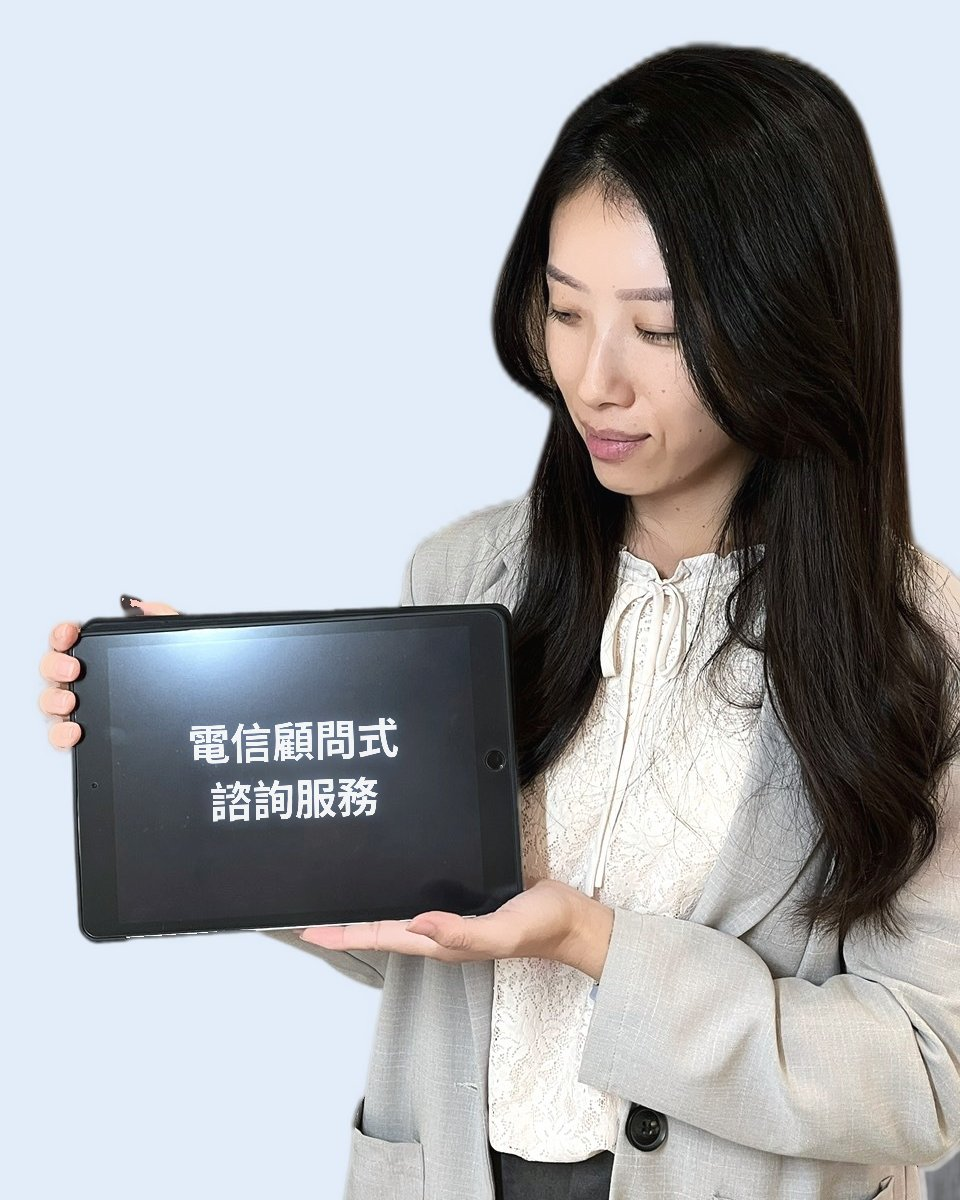
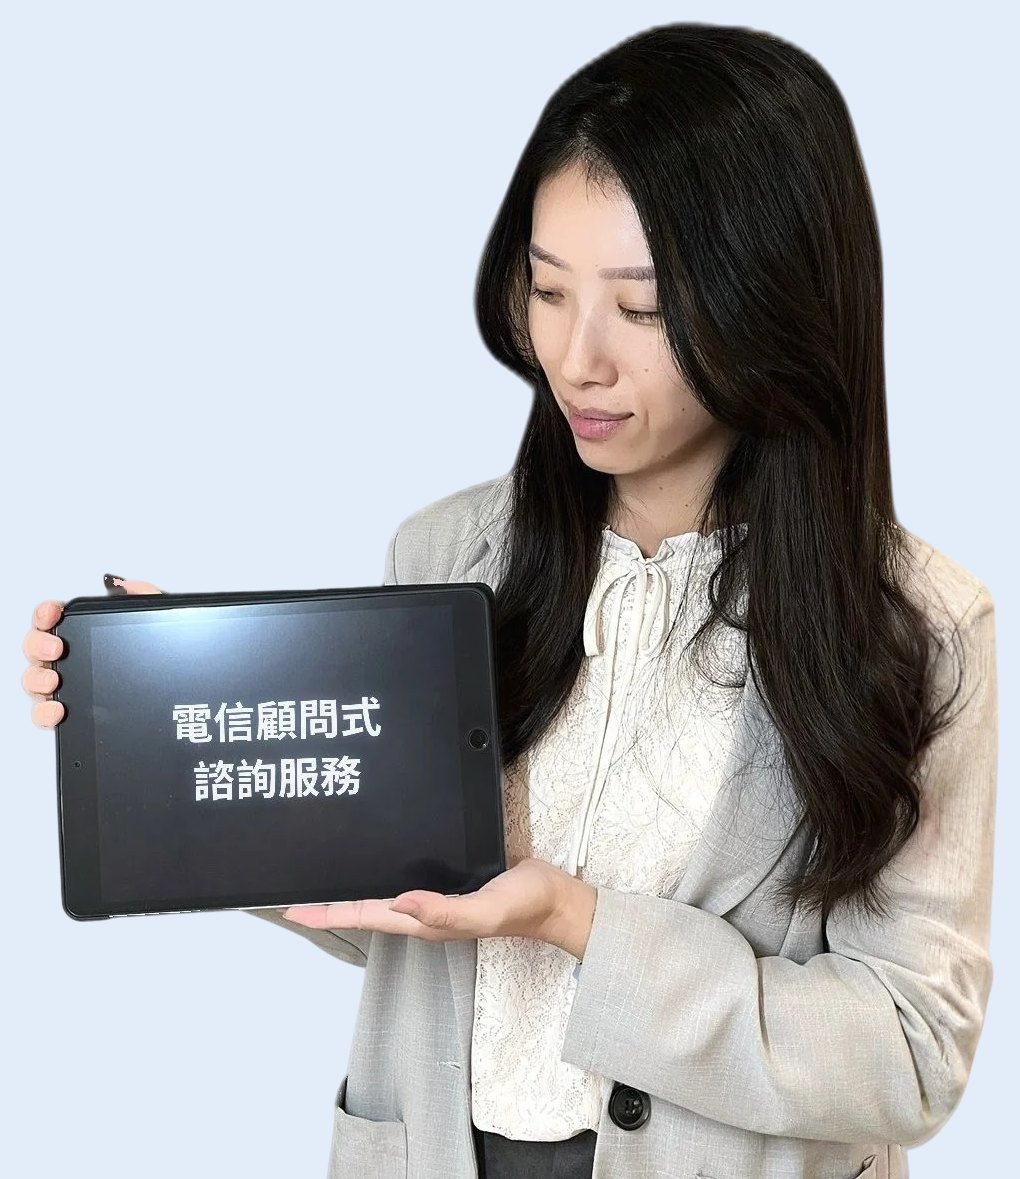
Main service photo: use extended photo with full right side
Claude-Session: https://claude.ai/code/session_01JAiqQkqjuFdidntcxi5Rha

diff --git a/index.html b/index.html
@@ -121,7 +121,7 @@ header{position:sticky;top:0;z-index:20;background:rgba(246,249,253,.88);backdro
 @media (max-width:520px){.ins-cols{column-gap:20px}}
 .svc.featured{overflow:hidden}
 .svc-photo{position:relative;align-self:stretch;margin:-28px -28px -28px 0;overflow:hidden}
-.svc-photo img{position:absolute;inset:0;width:100%;height:100%;object-fit:contain;object-position:right 80px bottom}
+.svc-photo img{position:absolute;inset:0;width:100%;height:100%;object-fit:contain;object-position:right bottom}
 @media (max-width:860px){.svc-photo{margin:0 -28px -28px}.svc-photo img{position:static;aspect-ratio:4/5;object-position:center top}}
 .svc .cover{margin:-28px -28px 20px;aspect-ratio:16/9;overflow:hidden;border-radius:var(--radius) var(--radius) 0 0}
 .svc .cover img{width:100%;height:100%;object-fit:cover;object-position:center 30%}
@@ -323,7 +323,7 @@ footer p{margin:4px 0}
             <li>常跑跳雙北，其他縣市也可預約實體辦理</li>
           </ul>
           </div>
-          <div class="svc-photo"><img src="images/telecom.jpg?v=2" alt="茶茶拿著平板說明資費比較" width="960" height="1200" loading="lazy"></div>
+          <div class="svc-photo"><img src="images/telecom.jpg?v=3" alt="茶茶拿著平板說明資費比較" width="1020" height="1179" loading="lazy"></div>
         </div>
         <div class="svc">
           <div class="svc-head"><div class="icon"><img src="images/icon-insurance.png" alt="" width="48" height="48" style="width:48px;height:48px;display:block"></div><h3>保險諮詢</h3></div>
